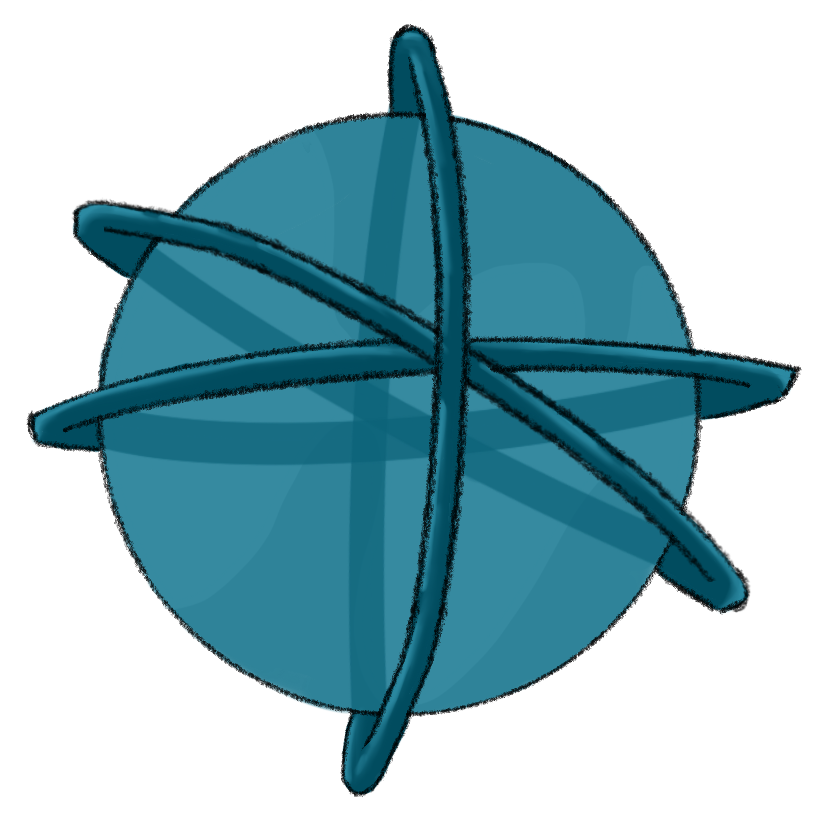
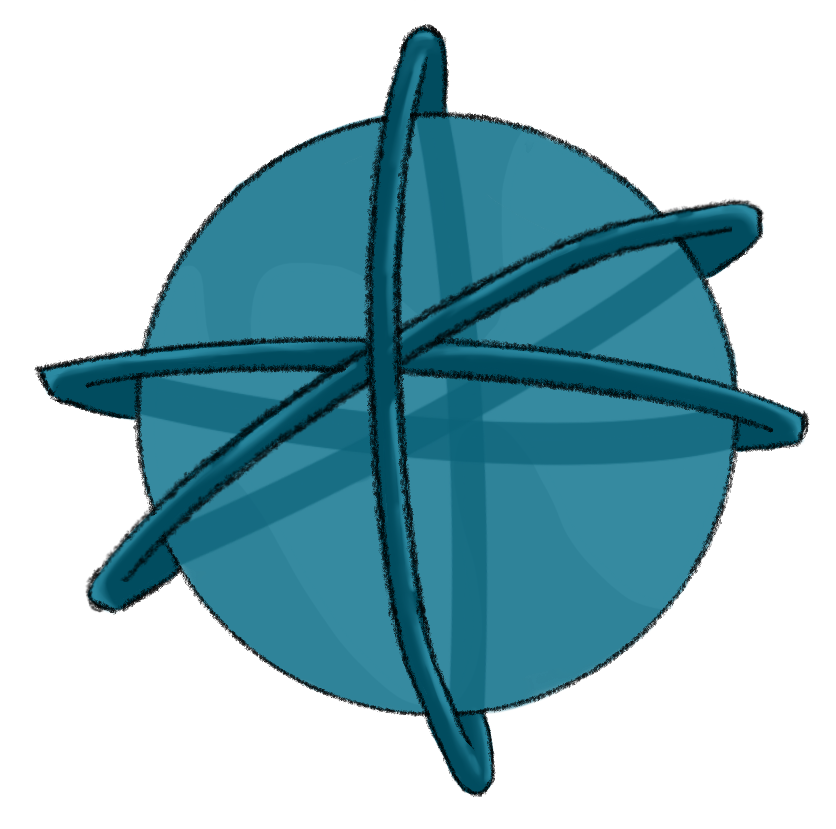
planètes

diff --git a/projet-astronommi/code_principal/accueil/styles.css b/projet-astronommi/code_principal/accueil/styles.css
@@ -36,7 +36,7 @@ body{
 .planète3{
     position: relative;
     left: 20vw;
-    width: 30vw;
+    width: 20vw;
     display: block;
 }
 
